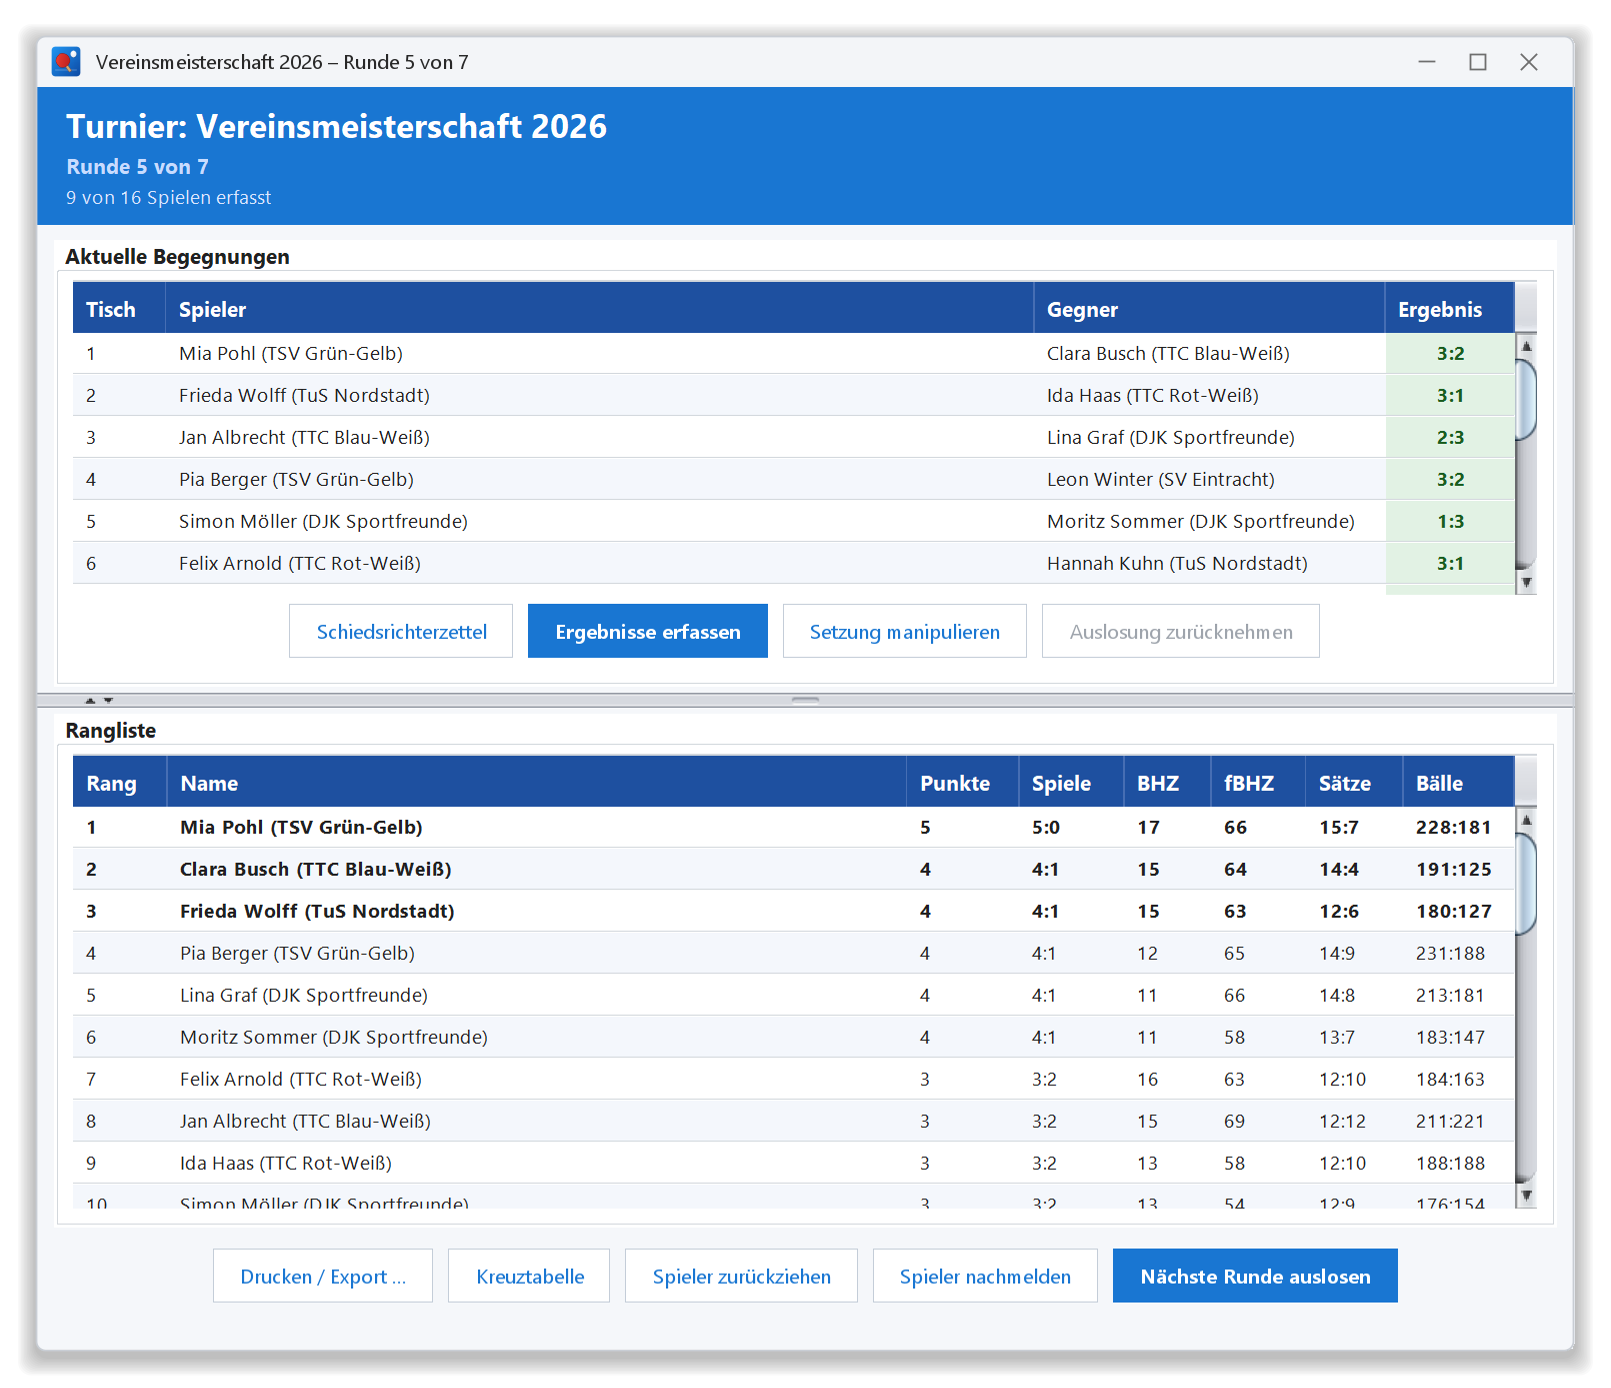
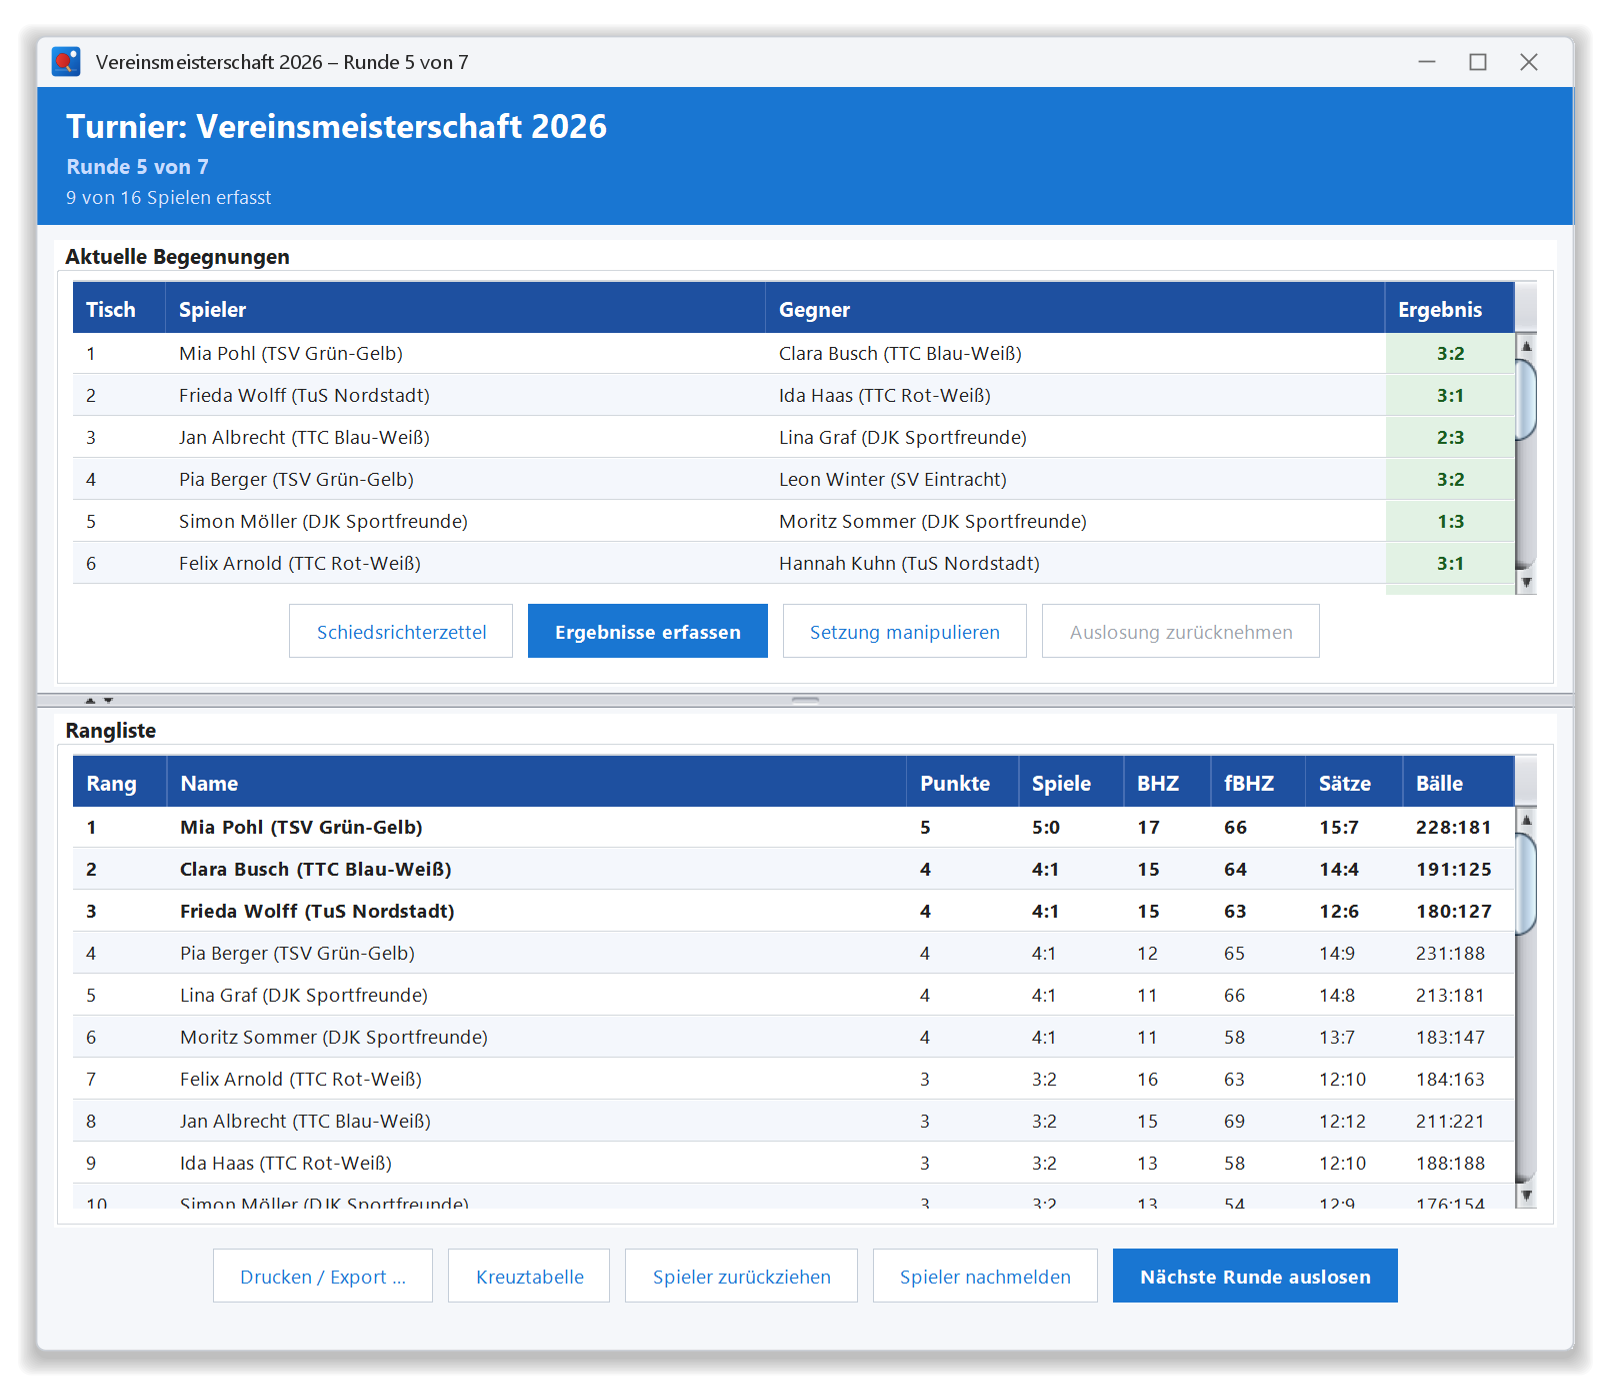
Windows-Build stabil, UI-Korrekturen (1.3.1)
- Release-Workflow: Gradle wird vorab mit bis zu drei Versuchen geladen und
  per setup-java zwischengespeichert; Wrapper-Timeout 120 s statt 10 s;
  Windows-Schritte brechen bei einem Gradle-Fehler sofort ab (statt mit
  einer irreführenden Compress-Archive-Meldung)
- Schaltflächen: sichtbarer Tastaturfokus (innerer Ring); Text mit der
  Kantenglättung des Systems
- Rangliste: Plätze 1-3 nur fett, wenn es Ergebnisse gibt und sie nicht
  fast das ganze Feld umfassen (vorher vor Runde 1 alles fett)
- Paarungstabelle: Spieler und Gegner teilen sich die Breite, die
  Ergebnisspalte bleibt im schmalen Fenster sichtbar
- Version 1.3.1

diff --git a/src/main/java/view/UITheme.java b/src/main/java/view/UITheme.java
@@ -111,8 +111,8 @@ public final class UITheme {
      */
     private static void flat(JButton btn, Color normal, Color hover, Color pressed, Color text,
                              Color disabledBackground, Color disabledText) {
-        btn.setUI(new FlatButtonUI());
-        btn.setFocusPainted(false);
+        btn.setUI(new FlatButtonUI(text.equals(Color.WHITE) ? new Color(255, 255, 255, 210) : PRIMARY));
+        btn.setFocusPainted(true);
         btn.setContentAreaFilled(true);
         btn.setOpaque(true);
         btn.setRolloverEnabled(true);
@@ -130,13 +130,22 @@ public final class UITheme {
 
     /** Button UI that paints the text in the button's foreground colour, also when disabled. */
     private static final class FlatButtonUI extends javax.swing.plaf.basic.BasicButtonUI {
+        private final Color focusColor;
+
+        FlatButtonUI(Color focusColor) {
+            this.focusColor = focusColor;
+        }
+
         @Override
         protected void paintText(Graphics g, AbstractButton b, Rectangle textRect, String text) {
             Graphics2D g2 = (Graphics2D) g;
-            g2.setRenderingHint(RenderingHints.KEY_TEXT_ANTIALIASING, RenderingHints.VALUE_TEXT_ANTIALIAS_ON);
+            // the desktop's text antialiasing (e.g. ClearType), otherwise greyscale
+            Object desktopHints = Toolkit.getDefaultToolkit().getDesktopProperty("awt.font.desktophints");
+            if (desktopHints instanceof java.util.Map<?, ?> hints) g2.addRenderingHints(hints);
+            else g2.setRenderingHint(RenderingHints.KEY_TEXT_ANTIALIASING, RenderingHints.VALUE_TEXT_ANTIALIAS_ON);
             g2.setColor(b.getForeground());
             g2.setFont(b.getFont());
-            FontMetrics fm = g2.getFontMetrics();
+            FontMetrics fm = b.getFontMetrics(b.getFont());
             g2.drawString(text, textRect.x, textRect.y + fm.getAscent());
         }
 
@@ -147,7 +156,12 @@ public final class UITheme {
 
         @Override
         protected void paintFocus(Graphics g, AbstractButton b, Rectangle viewRect, Rectangle textRect, Rectangle iconRect) {
-            // no focus rectangle
+            // keyboard focus: an inner ring, the size of the button stays the same
+            Graphics2D g2 = (Graphics2D) g.create();
+            g2.setColor(focusColor);
+            g2.setStroke(new BasicStroke(2f));
+            g2.drawRect(3, 3, b.getWidth() - 7, b.getHeight() - 7);
+            g2.dispose();
         }
     }
 

diff --git a/src/main/java/controller/TournamentRound.java b/src/main/java/controller/TournamentRound.java
@@ -269,7 +269,10 @@ public class TournamentRound {
             view.getResultsTable().setModel(getDefaultTableModel(standings));
             UITheme.applyTableStyling(view.getResultsTable());
             view.getResultsTable().setIntercellSpacing(new java.awt.Dimension(0, 1));
-            view.getResultsTable().putClientProperty("podium", Boolean.TRUE);
+            // places 1-3 in bold only once results exist and they do not cover most of the field
+            long onPodium = standings.stream().filter(e -> e.rank() <= 3).count();
+            boolean anyResult = playerList.stream().anyMatch(p -> p.getWins() + p.getLosses() > 0);
+            view.getResultsTable().putClientProperty("podium", anyResult && onPodium <= 4);
             UITheme.setNameColumnWide(view.getResultsTable(), 1);
         }
 
@@ -342,7 +345,17 @@ public class TournamentRound {
         if (!(mode == TournamentMode.GROUPS_KO && pairingEngine.isFinished())) {
             table.getColumnModel().getColumn(last).setCellRenderer(new UITheme.StatusRenderer());
         }
-        UITheme.setNameColumnWide(table, mode == TournamentMode.GROUPS_KO && !pairingEngine.isFinished() ? 2 : 1);
+        boolean pairings = !(mode == TournamentMode.GROUPS_KO && pairingEngine.isFinished());
+        int nameColumn = mode == TournamentMode.GROUPS_KO && pairings ? 2 : 1;
+        UITheme.setNameColumnWide(table, nameColumn);
+        if (pairings) {
+            // the opponent column shares the free width, so the result column stays visible
+            javax.swing.table.TableColumn opponent = table.getColumnModel().getColumn(nameColumn + 1);
+            opponent.setMinWidth(Math.min(opponent.getPreferredWidth(), 140));
+            opponent.setMaxWidth(Integer.MAX_VALUE);
+            table.getColumnModel().getColumn(nameColumn).setMinWidth(
+                    Math.min(table.getColumnModel().getColumn(nameColumn).getPreferredWidth(), 140));
+        }
     }
 
     private static DefaultTableModel readOnlyModel(String... columns) {
